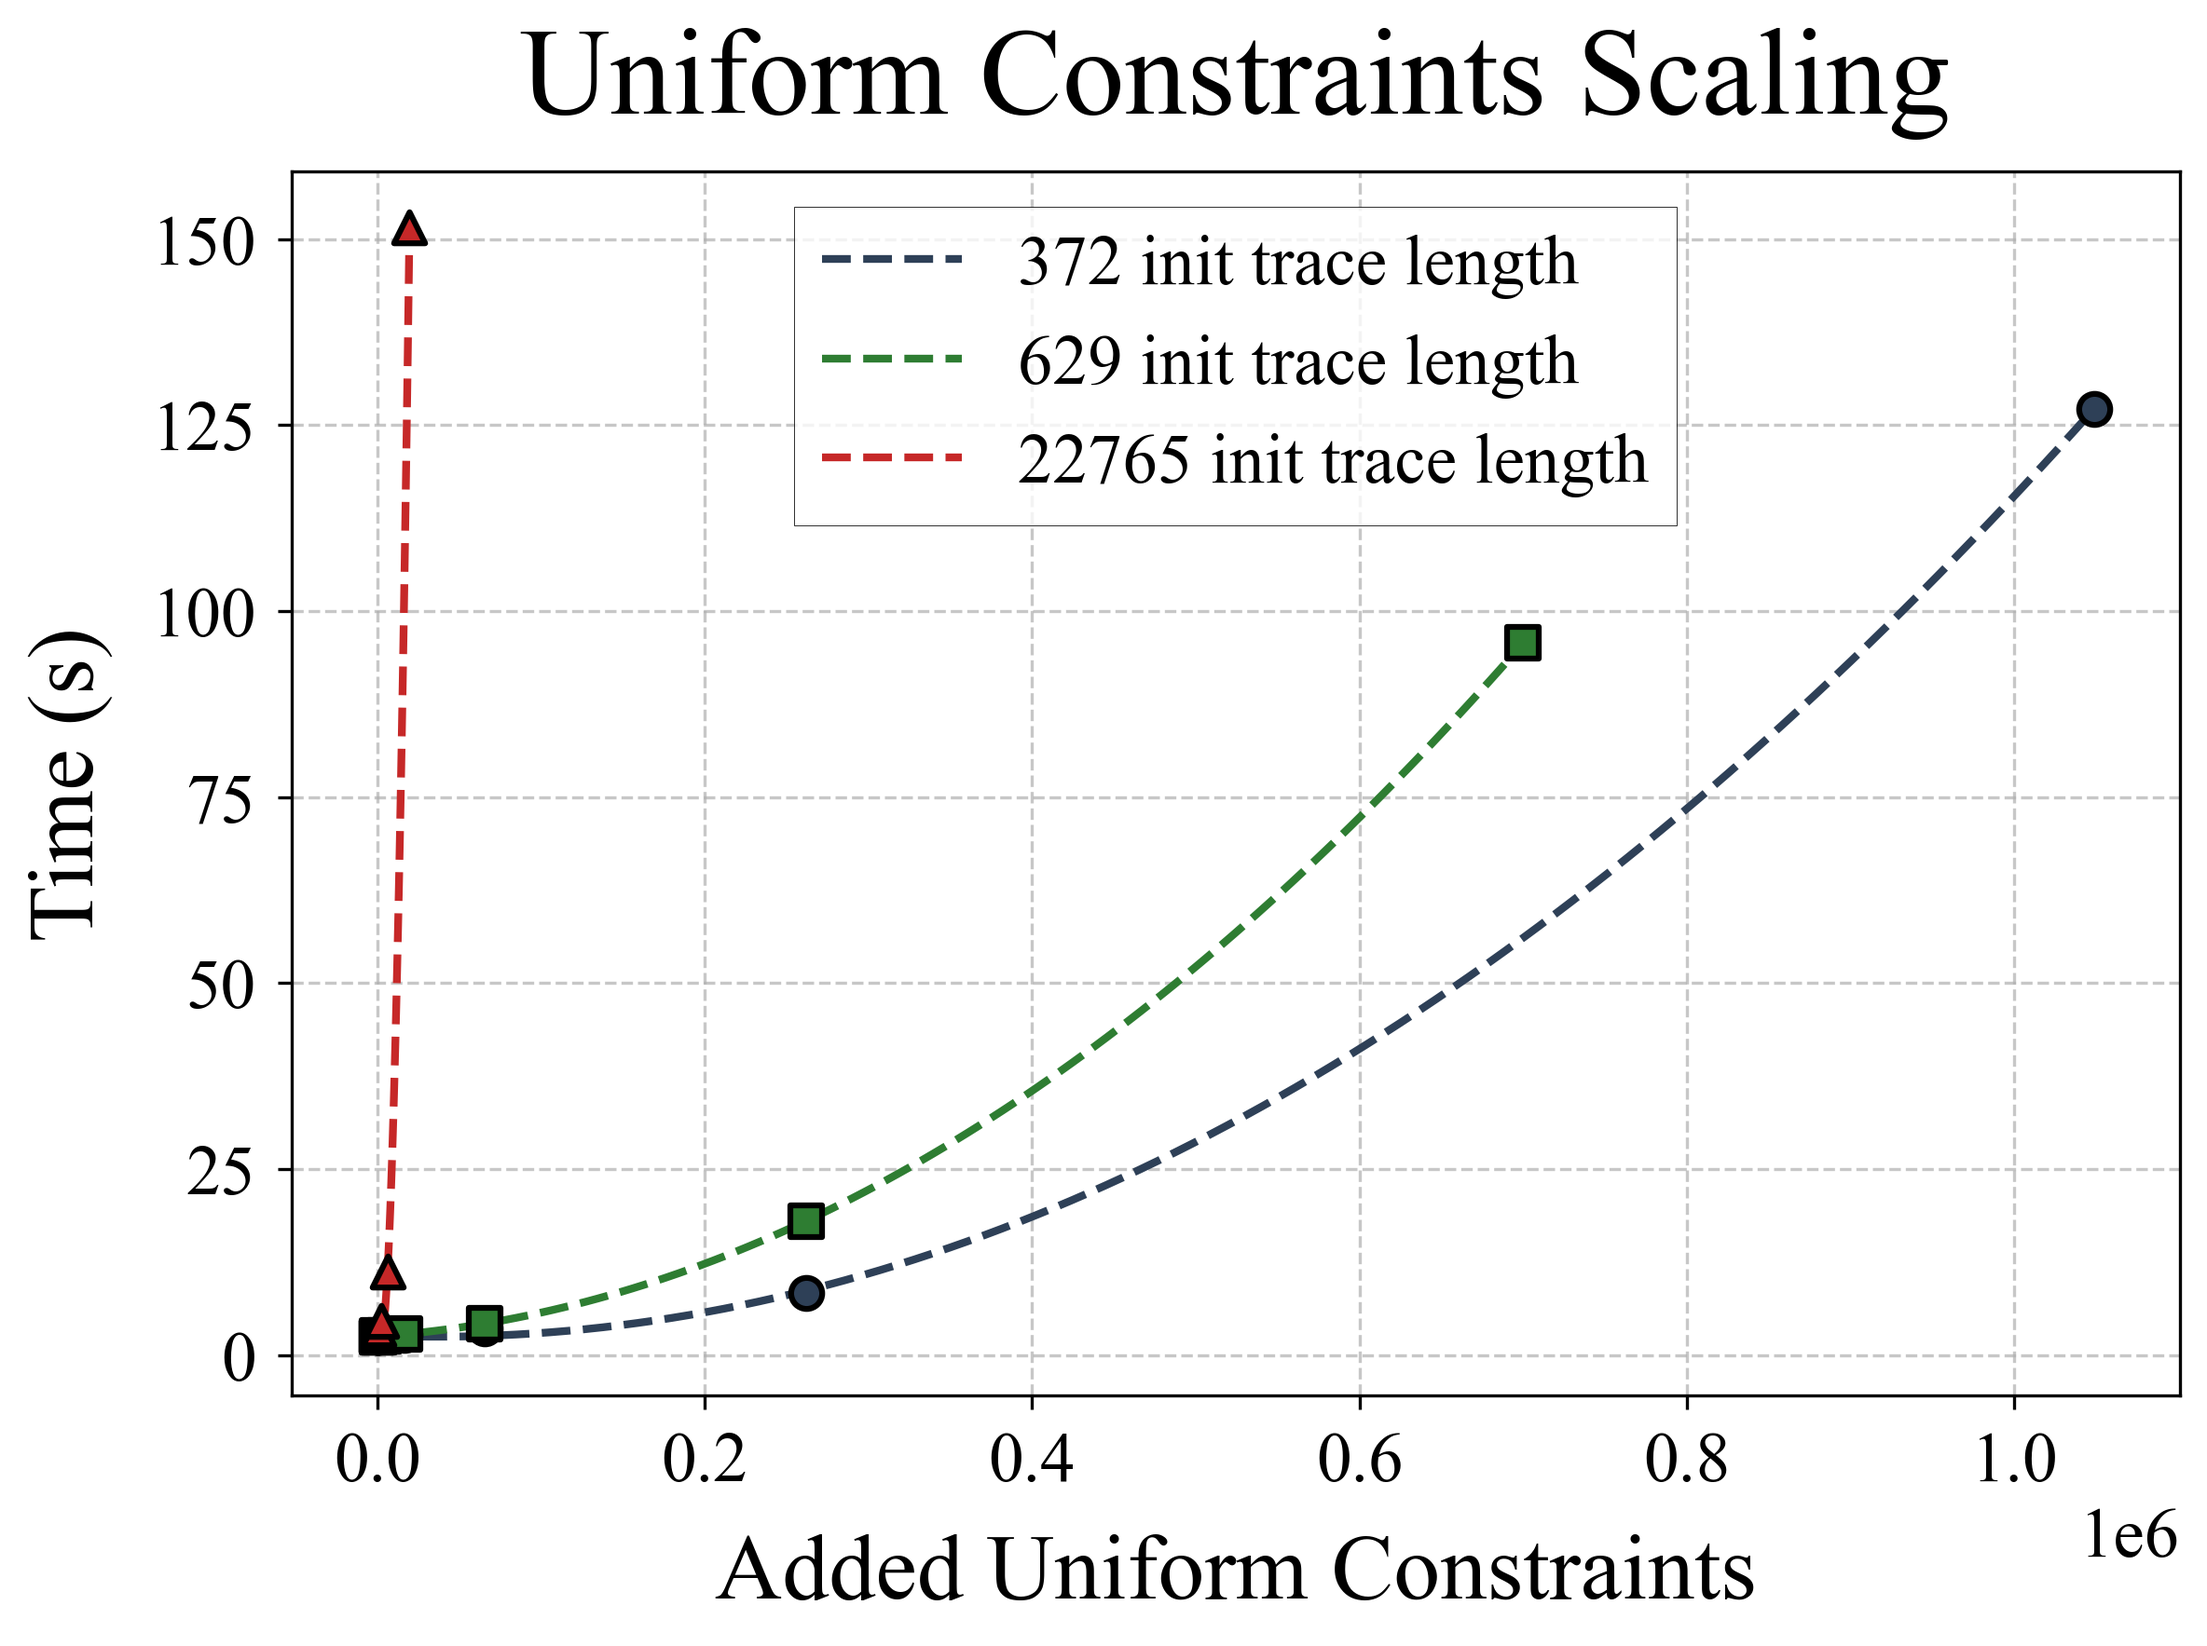
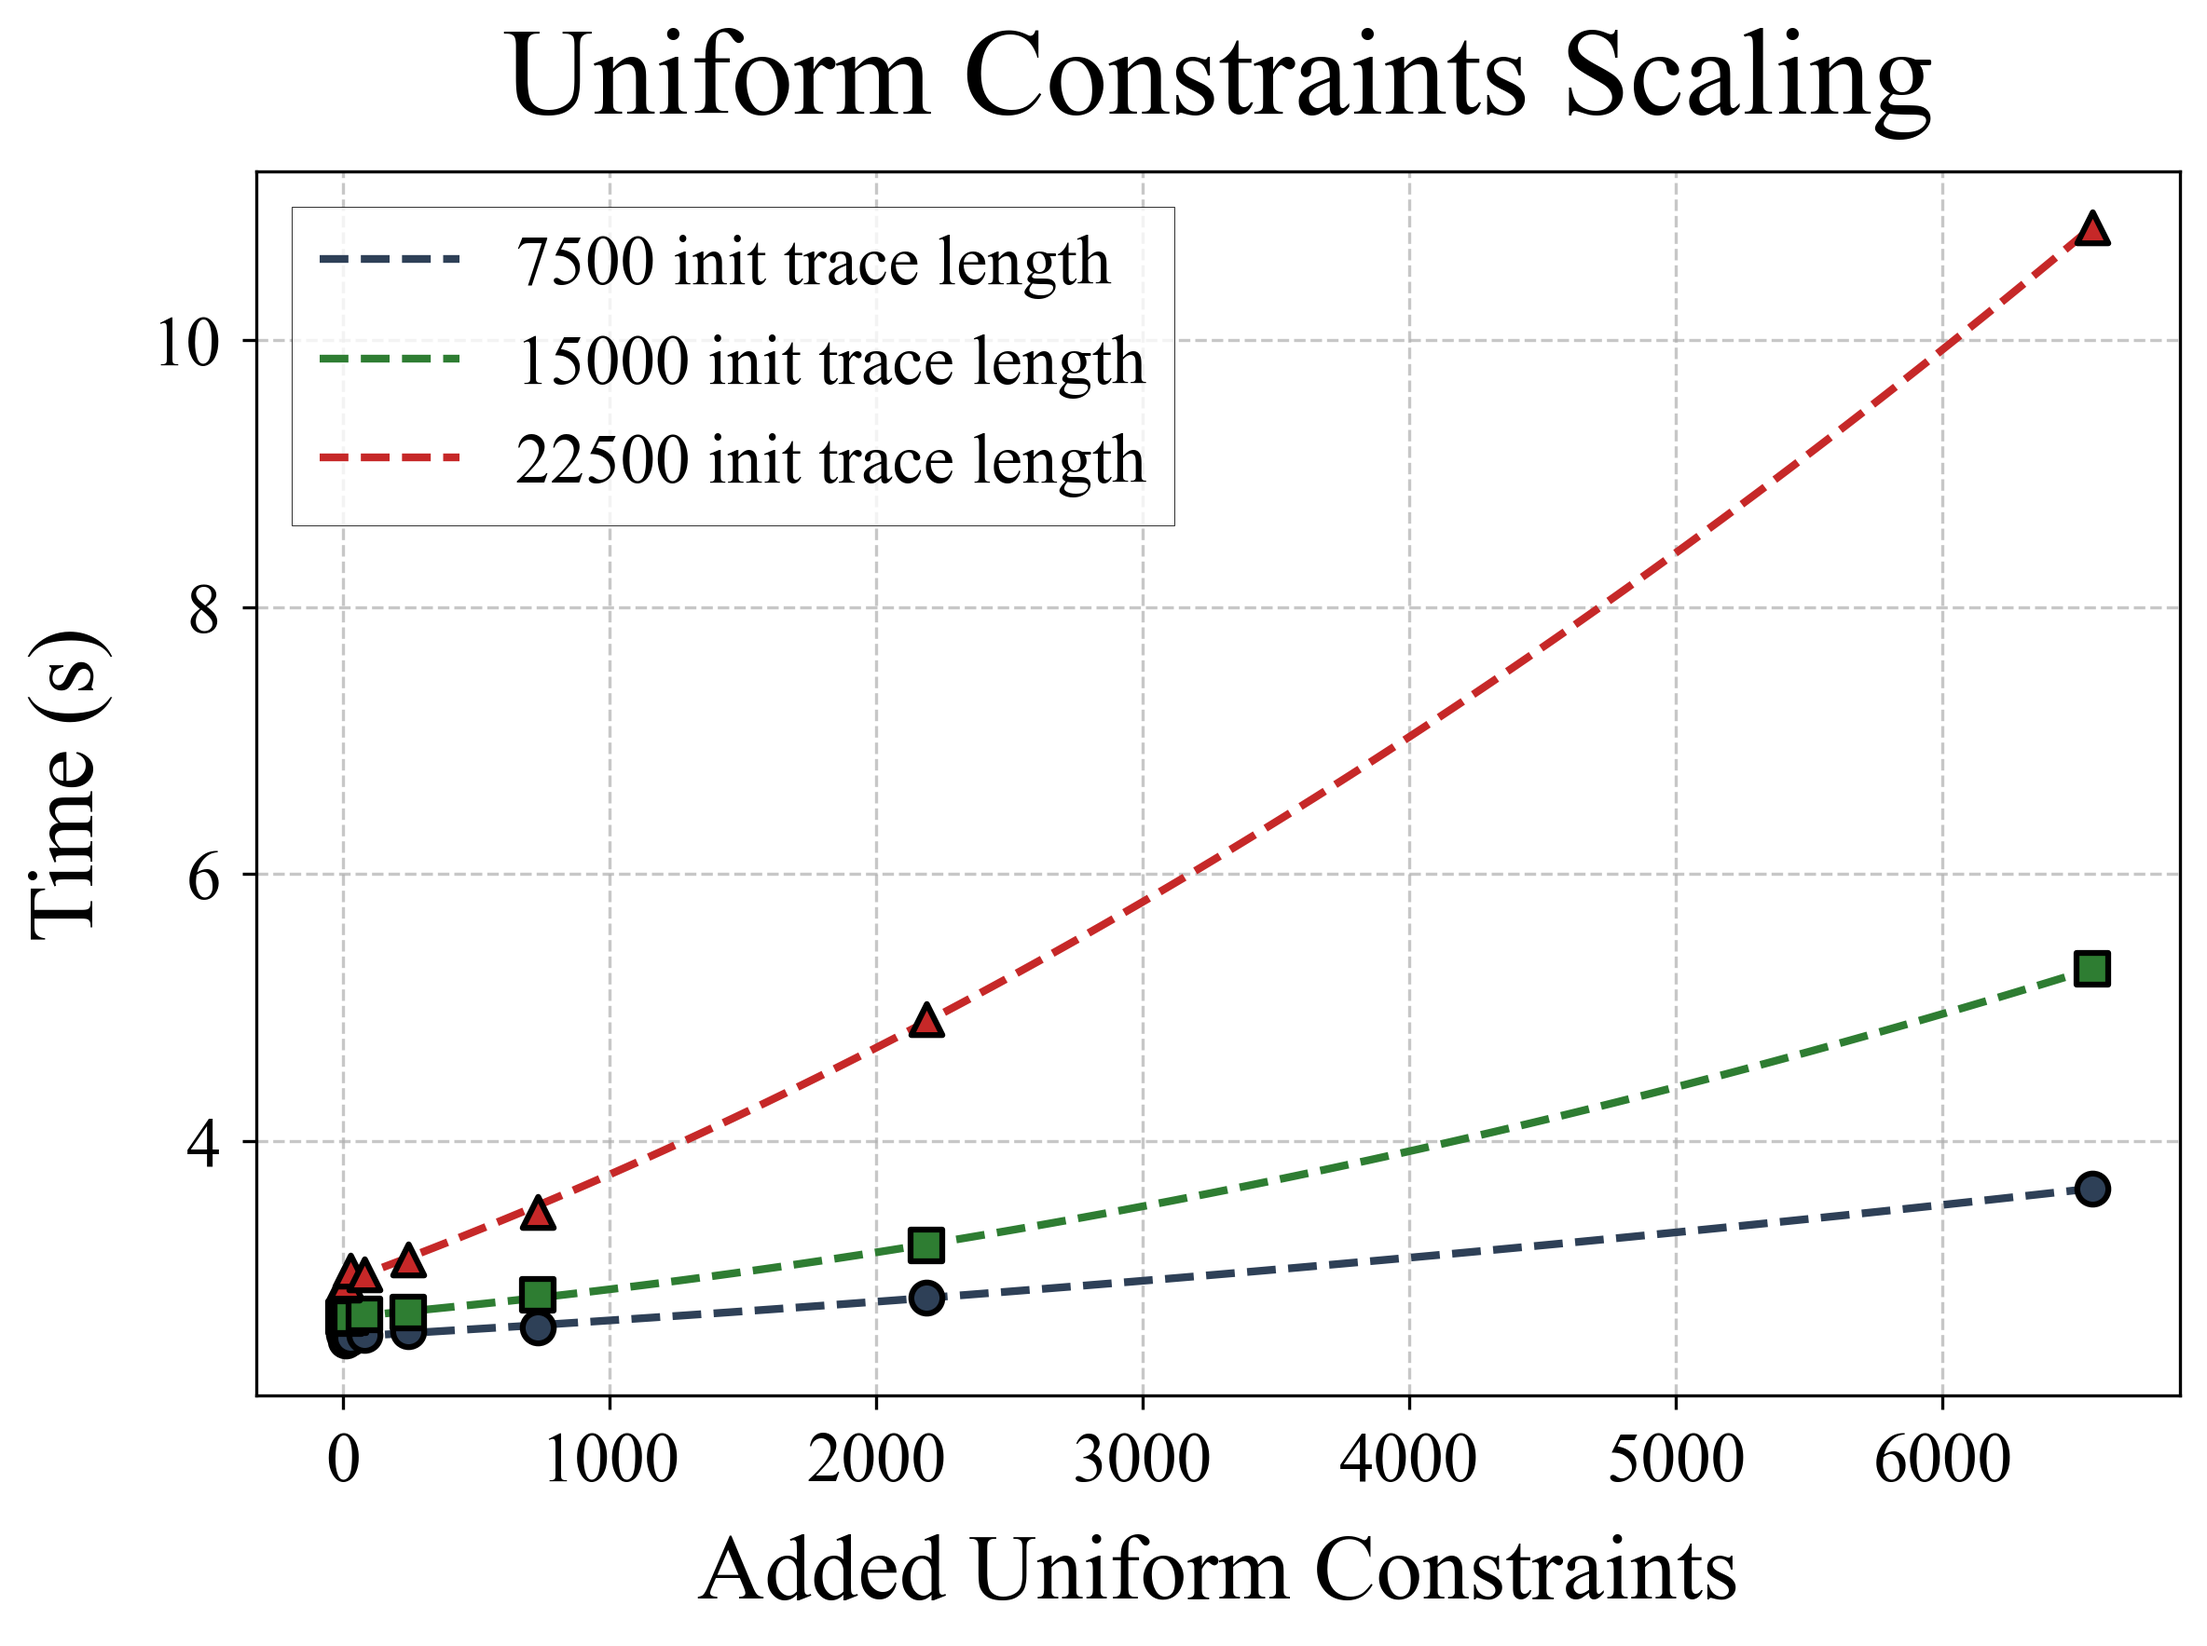
feat: better uniform constraints data

diff --git a/plot/constraints-uniform/plotter.py b/plot/constraints-uniform/plotter.py
@@ -18,7 +18,7 @@ mpl.rcParams['legend.fontsize'] = 18
 dir = os.path.dirname(os.path.abspath(__file__))
 
 # Read data from files
-data_files = ['372.txt', '629.txt', '22765.txt']
+data_files = ['7500.txt', '15000.txt', '22500.txt']
 data_series = {}
 
 for file_name in data_files:
